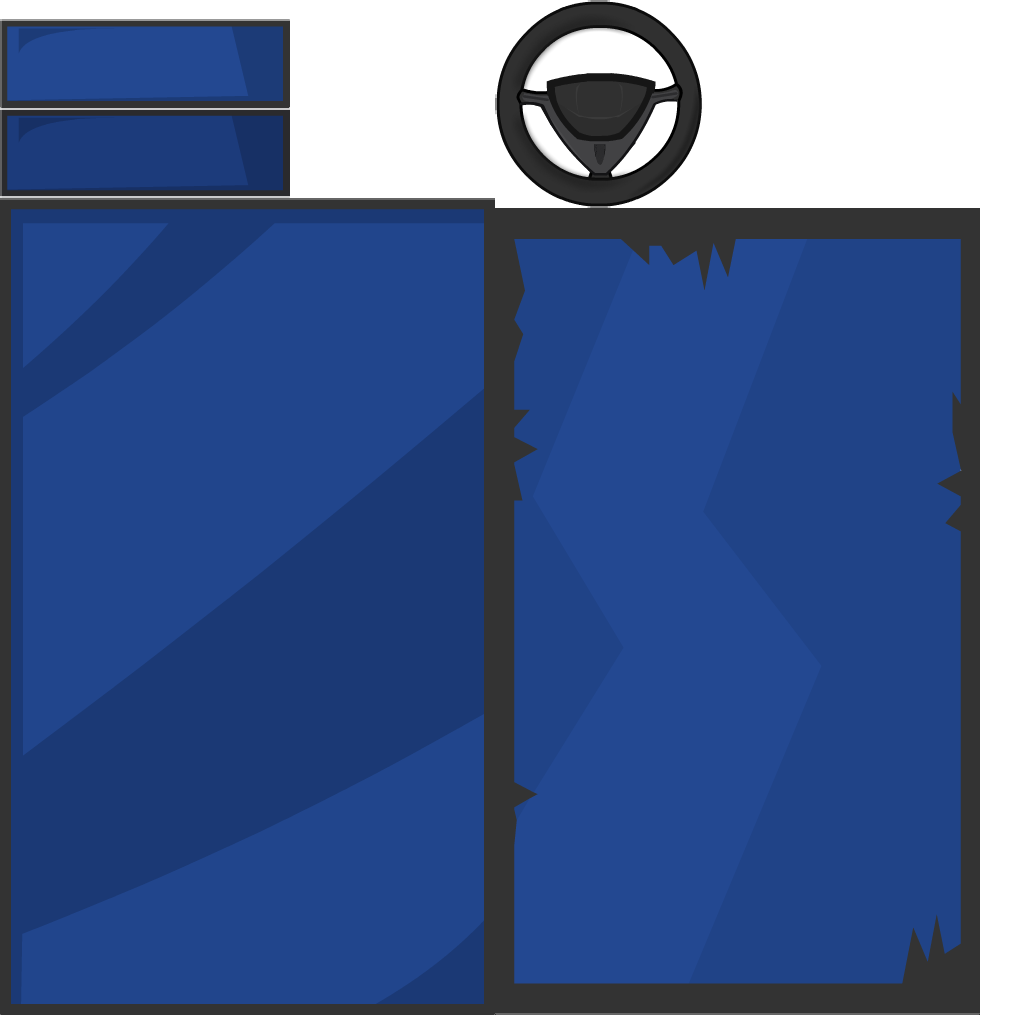
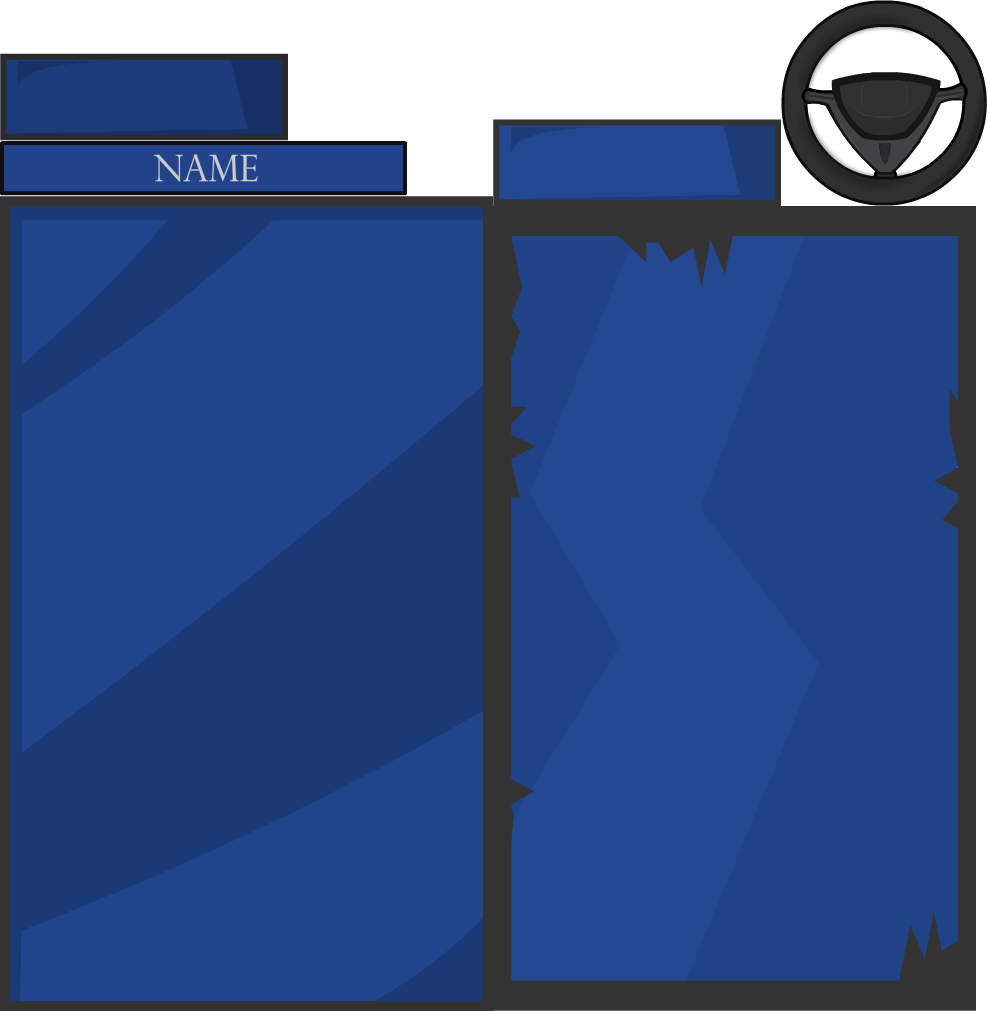
Adding placeholder car selection screen

Changed region(s): [[0.0, 0.0, 1.0, 1.0], [0.0, 0.0, 0.4251, 0.2146]]

diff --git a/core/src/com/letsrace/game/screen/FRCarSelectScreen.java b/core/src/com/letsrace/game/screen/FRCarSelectScreen.java
@@ -1,0 +1,75 @@
+package com.letsrace.game.screen;
+
+import com.badlogic.gdx.Gdx;
+import com.badlogic.gdx.ScreenAdapter;
+import com.badlogic.gdx.graphics.GL20;
+import com.badlogic.gdx.scenes.scene2d.InputEvent;
+import com.badlogic.gdx.scenes.scene2d.ui.Image;
+import com.badlogic.gdx.scenes.scene2d.utils.ClickListener;
+import com.letsrace.game.FRConstants;
+import com.letsrace.game.FRConstants.GameState;
+import com.letsrace.game.LetsRace;
+import com.letsrace.game.network.FRMessageCodes;
+
+public class FRCarSelectScreen extends ScreenAdapter {
+	private LetsRace gameRef;
+
+	public FRCarSelectScreen(LetsRace game){
+		Gdx.app.log(FRConstants.TAG, "Car-Select: Constructor");
+		gameRef = game;
+		gameRef.stage.clear();
+		Gdx.input.setInputProcessor(gameRef.stage);
+		Image image = new Image(gameRef.skin.getDrawable("wait-screen-back"));
+		image.setWidth(Gdx.graphics.getWidth());
+		image.setHeight(Gdx.graphics.getHeight());
+		Image name = new Image(gameRef.skin.getDrawable("car-selection-name"));
+		name.setWidth(400*FRConstants.GUI_SCALE_WIDTH);
+		name.setHeight(50*FRConstants.GUI_SCALE_HEIGHT);
+		name.setPosition(36*FRConstants.GUI_SCALE_WIDTH, (Gdx.graphics.getHeight()-30)*FRConstants.GUI_SCALE_HEIGHT);
+		Image character = new Image(gameRef.skin.getDrawable("car-selection-char"));
+		character.setWidth(230*FRConstants.GUI_SCALE_WIDTH);
+		character.setHeight(250*FRConstants.GUI_SCALE_HEIGHT);
+		character.setPosition(36*FRConstants.GUI_SCALE_WIDTH, (Gdx.graphics.getHeight()-96)*FRConstants.GUI_SCALE_HEIGHT);
+		Image stats = new Image(gameRef.skin.getDrawable("car-selection-stats"));
+		stats.setWidth(150*FRConstants.GUI_SCALE_WIDTH);
+		stats.setHeight(250*FRConstants.GUI_SCALE_WIDTH);
+		stats.setPosition(286*FRConstants.GUI_SCALE_WIDTH, (Gdx.graphics.getHeight()-96)*FRConstants.GUI_SCALE_HEIGHT);
+		Image car = new Image(gameRef.skin.getDrawable("car-selection-car"));
+		car.setWidth(400*FRConstants.GUI_SCALE_WIDTH);
+		car.setHeight(400*FRConstants.GUI_SCALE_WIDTH);
+		car.setPosition(36*FRConstants.GUI_SCALE_WIDTH, (Gdx.graphics.getHeight()-364)*FRConstants.GUI_SCALE_HEIGHT);
+		car.addListener(new ClickListener(){
+			@Override
+			public void clicked(InputEvent event, float x, float y) {
+				super.clicked(event, x, y);
+				byte[] msg = new byte[1];
+				msg[0] = FRMessageCodes.SELECTED_CAR_0;
+				gameRef.googleServices.sendReliableMessage(msg, gameRef.client.serverID);
+				gameRef.moveToScreen(GameState.WAIT);
+			}
+		});
+		gameRef.stage.addActor(image);
+		gameRef.stage.addActor(name);
+		gameRef.stage.addActor(character);
+		gameRef.stage.addActor(stats);
+		gameRef.stage.addActor(car);
+	}
+
+	public void show() {
+		Gdx.app.log(FRConstants.TAG, "Car-Select: Show()");
+		// Throwing stuff in constructor as loading stuff in show() causes black
+		// screen
+	}
+
+	@Override
+	public void render(float delta) {
+		GL20 gl = Gdx.gl;
+		gl.glClear(GL20.GL_COLOR_BUFFER_BIT);
+		gameRef.stage.draw();
+	}
+
+	public void dispose() {
+		Gdx.app.log(FRConstants.TAG, "Car-Select: Dispose()");
+	}
+
+}

diff --git a/core/src/com/letsrace/game/LetsRace.java b/core/src/com/letsrace/game/LetsRace.java
@@ -11,6 +11,7 @@ import com.badlogic.gdx.scenes.scene2d.Stage;
 import com.badlogic.gdx.scenes.scene2d.ui.Skin;
 import com.letsrace.game.FRConstants.GameState;
 import com.letsrace.game.network.FRGameClient;
+import com.letsrace.game.network.FRGameServer;
 import com.letsrace.game.network.FRGoogleServices;
 import com.letsrace.game.screen.FRGameScreen;
 import com.letsrace.game.screen.FRMenuScreen;
@@ -35,14 +36,20 @@ public class LetsRace extends Game {
 	public void decideOnServerAndStart() {
 		String[] participants = (String[]) googleServices.getParticipantIds().toArray();
 		Arrays.sort(participants);
-		if (participants[0] == googleServices.getMyId())
+		if (participants[0] == googleServices.getMyId()){
 			Gdx.app.log(FRConstants.TAG, "I am the server");
+			FRGameServer server = new FRGameServer();
+			googleServices.setServerListener(server);
+		}
 		int ctr = 0;
 		for (String s : participants) {
 			playerNumber.put(s, ctr++);
 		}
 		myPlayerNo = playerNumber.get(googleServices.getMyId());
-		Gdx.app.log(FRConstants.TAG, "I am not the server");
+		Gdx.app.log(FRConstants.TAG, "I am the client");
+		client = new FRGameClient(participants[0]);
+		googleServices.setClientListener(client);
+		moveToScreen(GameState.CAR_SELECT);
 	}
 
 	@Override
@@ -51,6 +58,7 @@ public class LetsRace extends Game {
 		skin = new Skin(new TextureAtlas(Gdx.files.internal("ui/ui-atlas.pack")));
 		stage = new Stage();
 		gameState = GameState.SPLASH_SIGN_IN;
+		FRConstants.initializeDynamicConstants();
 		setScreen(new FRSplashScreen(this));
 	}
 

diff --git a/android/src/com/letsrace/game/android/AndroidLauncher.java b/android/src/com/letsrace/game/android/AndroidLauncher.java
@@ -32,6 +32,7 @@ import com.google.example.games.basegameutils.BaseGameUtils;
 import com.letsrace.game.FRConstants.GameState;
 import com.letsrace.game.LetsRace;
 import com.letsrace.game.network.FRGoogleServices;
+import com.letsrace.game.network.FRMessageListener;
 
 public class AndroidLauncher extends AndroidApplication implements
 		FRGoogleServices, GoogleApiClient.ConnectionCallbacks,
@@ -576,8 +577,9 @@ public class AndroidLauncher extends AndroidApplication implements
 		return mMyId;
 	}
 
-	public void sendReliableMessage(byte[] message) {
-
+	public void sendReliableMessage(byte[] message, String participantID) {
+		Games.RealTimeMultiplayer.sendReliableMessage(mGoogleApiClient, null,
+				message, room.getRoomId(), participantID);
 	}
 
 	public void broadcastMessage(byte[] message) {
@@ -588,5 +590,15 @@ public class AndroidLauncher extends AndroidApplication implements
 						p.getParticipantId());
 			}
 		}
+	}
+
+	@Override
+	public void setServerListener(FRMessageListener listener) {
+		messageHandler.setServerMessageListener(listener);
+	}
+
+	@Override
+	public void setClientListener(FRMessageListener listener) {
+		messageHandler.setClientMessageListener(listener);
 	}
 }

diff --git a/desktop/src/com/letsrace/game/desktop/DesktopLauncher.java b/desktop/src/com/letsrace/game/desktop/DesktopLauncher.java
@@ -10,6 +10,7 @@ import com.badlogic.gdx.utils.Timer.Task;
 import com.letsrace.game.FRConstants.GameState;
 import com.letsrace.game.LetsRace;
 import com.letsrace.game.network.FRGoogleServices;
+import com.letsrace.game.network.FRMessageListener;
 
 public class DesktopLauncher implements FRGoogleServices{
 	public LetsRace game;
@@ -49,5 +50,29 @@ public class DesktopLauncher implements FRGoogleServices{
 	public ArrayList<String> getParticipantIds() {
 		// TODO Auto-generated method stub
 		return null;
+	}
+
+	@Override
+	public void setServerListener(FRMessageListener listener) {
+		// TODO Auto-generated method stub
+		
+	}
+
+	@Override
+	public void setClientListener(FRMessageListener listener) {
+		// TODO Auto-generated method stub
+		
+	}
+
+	@Override
+	public void sendReliableMessage(byte[] message, String participantID) {
+		// TODO Auto-generated method stub
+		
+	}
+
+	@Override
+	public void broadcastMessage(byte[] message) {
+		// TODO Auto-generated method stub
+		
 	}
 }

diff --git a/core/src/com/letsrace/game/screen/FRWaitScreen.java b/core/src/com/letsrace/game/screen/FRWaitScreen.java
@@ -24,8 +24,8 @@ public class FRWaitScreen extends ScreenAdapter{
 		image.setZIndex(1);
 		gameRef.stage.addActor(image);
 		Image steering = new Image(gameRef.skin.getDrawable("wait-screen-steer"));
-		steering.setWidth(210 * ((float)Gdx.graphics.getWidth()/FRConstants.GUI_WIDTH));
-		steering.setHeight(210 * ((float)Gdx.graphics.getHeight()/FRConstants.GUI_HIEGHT));
+		steering.setWidth(210 * FRConstants.GUI_SCALE_WIDTH);
+		steering.setHeight(210 * FRConstants.GUI_SCALE_WIDTH);
 		steering.setPosition(Gdx.graphics.getWidth()/2 - steering.getWidth()/2, Gdx.graphics.getHeight()/2  - steering.getHeight()/2);
 		steering.setOrigin(steering.getWidth()/2,steering.getHeight()/2);
 		steering.addAction(Actions.forever(Actions.sequence(Actions.rotateBy(ROTATION,DURATION),Actions.rotateBy(-2*ROTATION,DURATION*2),Actions.rotateBy(ROTATION,DURATION),Actions.rotateBy(ROTATION*4,DURATION),Actions.rotateBy(-ROTATION*4,DURATION))));

diff --git a/core/src/com/letsrace/game/FRConstants.java b/core/src/com/letsrace/game/FRConstants.java
@@ -1,9 +1,18 @@
 package com.letsrace.game;
 
-public interface FRConstants {
+import com.badlogic.gdx.Gdx;
+
+public class FRConstants {
 	public final static int PIXELS_PER_UNIT = 16;
-	public enum GameState {SPLASH_SIGN_IN,MENU,WAIT,SELECT_CAR,GAME_SCREEN};
+	public enum GameState {
+		SPLASH_SIGN_IN, MENU, WAIT, SELECT_CAR, GAME_SCREEN, CAR_SELECT};
 	public final static int GUI_WIDTH = 480;
 	public final static int GUI_HIEGHT = 800;
+	public static float GUI_SCALE_WIDTH;
+	public static float GUI_SCALE_HEIGHT;
 	public static final String TAG = "Lets-Race!";
+	public static void initializeDynamicConstants(){
+		GUI_SCALE_HEIGHT = ((float)Gdx.graphics.getHeight()/GUI_HIEGHT);
+		GUI_SCALE_WIDTH = ((float)Gdx.graphics.getWidth()/GUI_WIDTH);
+	}
 }

diff --git a/core/src/com/letsrace/game/screen/FRMenuScreen.java b/core/src/com/letsrace/game/screen/FRMenuScreen.java
@@ -68,8 +68,8 @@ public class FRMenuScreen extends ScreenAdapter {
 				gameRef.skin.getDrawable("button-up"), gameRef.skin.getDrawable("button-down"),
 				null, gameRef.font));
 		button.addListener(listener);
-		button.setWidth(280 * ((float) Gdx.graphics.getWidth() / FRConstants.GUI_WIDTH));
-		button.setHeight(80 * ((float) Gdx.graphics.getHeight() / FRConstants.GUI_HIEGHT));
+		button.setWidth(280 * FRConstants.GUI_SCALE_WIDTH);
+		button.setHeight(80 * FRConstants.GUI_SCALE_HEIGHT);
 		button.setPosition(Gdx.graphics.getWidth() / 2 - button.getWidth() / 2,
 				Gdx.graphics.getHeight() / 2
 						- (TOTAL_BUTTONS_ON_SCREEN / 2 - buttonNumber)

diff --git a/core/src/com/letsrace/game/network/FRGameServer.java b/core/src/com/letsrace/game/network/FRGameServer.java
@@ -3,16 +3,11 @@ package com.letsrace.game.network;
 import com.letsrace.game.FRGameWorld;
 import static com.letsrace.game.network.FRMessageCodes.*;
 
-public class FRGameServer implements Runnable, FRMessageListener {
+public class FRGameServer implements FRMessageListener {
 	FRGameWorld gameWorld;
 	
 	public FRGameServer() {
 		
-	}
-
-	@Override
-	public void run() {
-		// When in game, send state after every n seconds
 	}
 
 	@Override

diff --git a/core/src/com/letsrace/game/network/FRGoogleServices.java b/core/src/com/letsrace/game/network/FRGoogleServices.java
@@ -7,4 +7,8 @@ public interface FRGoogleServices {
 	void startQuickGame();
 	public ArrayList<String> getParticipantIds();
 	public String getMyId();
+	public void setServerListener(FRMessageListener listener);
+	public void setClientListener(FRMessageListener listener);
+	public void sendReliableMessage(byte[] message, String participantID);
+	public void broadcastMessage(byte[] message);
 }
